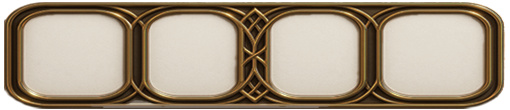
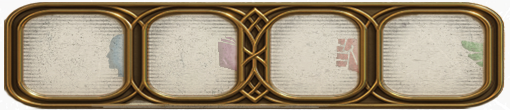
feat: default background

diff --git a/slices/pages/board/board/ui/layout/orientation/portrait/footer/description/BoardDescription/ui/BoardDescription.tsx b/slices/pages/board/board/ui/layout/orientation/portrait/footer/description/BoardDescription/ui/BoardDescription.tsx
@@ -4,6 +4,7 @@ import {
 	selectCurrentBoardProp,
 	selectShowDescription,
 } from "@modules/board/base/shared/lib";
+import { selectArtworksEnabled } from "@modules/core/theme/shared/lib";
 import { selectCurrentFaction } from "@modules/mechanics/board/base/entities/lib";
 import {
 	CAN_ALWAYS_SHOW_GAME_TEXT,
@@ -28,6 +29,7 @@ const screen = Dimensions.get("screen");
 export type BoardDescriptionProps = ViewProps;
 export const BoardDescription = ({ ...props }: BoardDescriptionProps) => {
 	const alwaysShowText = useAppSelector(selectAlwaysShowGameText);
+	const artworksEnabled = useAppSelector(selectArtworksEnabled);
 
 	const show = alwaysShowText && CAN_ALWAYS_SHOW_GAME_TEXT;
 
@@ -68,7 +70,11 @@ export const BoardDescription = ({ ...props }: BoardDescriptionProps) => {
 				{!showDescription && <C.ExpandArea />}
 				<C.TopContent />
 				<GestureDetector gesture={gesture}>
-					<C.Background faction={faction} width={screen.width}>
+					<C.Background
+						faction={faction}
+						width={screen.width}
+						enabled={artworksEnabled}
+					>
 						<C.DescriptionContent>
 							<C.TextContent>
 								{showTraits && (

diff --git a/slices/modules/faction/shared/ui/FactionDescription/FactionDescription.tsx b/slices/modules/faction/shared/ui/FactionDescription/FactionDescription.tsx
@@ -1,4 +1,7 @@
-import { descriptionImages } from "@assets/images/game/description";
+import {
+	defaultFactionDescriptionImage,
+	descriptionImages,
+} from "@assets/images/game/description";
 import { getBoxByRatio } from "@shared/lib/util/size/box";
 import type { PropsWithFaction } from "@shared/model";
 import type { ImageBackgroundProps } from "@shared/ui";
@@ -6,11 +9,14 @@ import * as C from "./FactionDescription.components";
 import { factionDescriptionSize } from "./FactionDescription.styles";
 
 export type FactionDescriptionProps = Omit<ImageBackgroundProps, "source"> &
-	PropsWithFaction;
+	PropsWithFaction & {
+		enabled?: boolean;
+	};
 
 export const FactionDescription = ({
 	children,
 	faction,
+	enabled = true,
 	...props
 }: FactionDescriptionProps) => {
 	const { width, height } = props;
@@ -29,7 +35,9 @@ export const FactionDescription = ({
 		return null;
 	}
 
-	const source = descriptionImages[faction];
+	const source = enabled
+		? descriptionImages[faction]
+		: defaultFactionDescriptionImage;
 
 	return (
 		<C.Background {...props} source={source} box={imageBox}>

diff --git a/slices/pages/board/board/ui/shared/background/FactionBackground/FactionBackground.tsx b/slices/pages/board/board/ui/shared/background/FactionBackground/FactionBackground.tsx
@@ -1,3 +1,4 @@
+import { selectArtworksEnabled } from "@modules/core/theme/shared/lib";
 import type { FactionBackgroundProps as BackgroundProps } from "@modules/faction/shared/ui";
 import { selectCurrentFaction } from "@modules/mechanics/board/base/entities/lib";
 import { useAppSelector } from "@shared/lib";
@@ -7,6 +8,9 @@ export type FactionBackgroundProps = Omit<BackgroundProps, "faction">;
 
 export const FactionBackground = (props: FactionBackgroundProps) => {
 	const faction = useAppSelector(selectCurrentFaction);
+	const artworksEnabled = useAppSelector(selectArtworksEnabled);
 
-	return <C.Background {...props} faction={faction} />;
+	return (
+		<C.Background {...props} faction={faction} enabled={artworksEnabled} />
+	);
 };

diff --git a/assets/images/game/description/index.ts b/assets/images/game/description/index.ts
@@ -7,6 +7,8 @@ const seeker = require("./seeker.png");
 const survivor = require("./survivor.png");
 const neutral = require("./neutral.png");
 
+export const defaultFactionDescriptionImage = require("./default.png");
+
 export const descriptionImages: FactionImages = {
 	guardian,
 	mystic,

diff --git a/slices/pages/static/about/ui/AboutPage/AboutPage.tsx b/slices/pages/static/about/ui/AboutPage/AboutPage.tsx
@@ -61,9 +61,10 @@ export const AboutPage = (props: AboutPageProps) => {
 							}}
 						/>
 					</Paragraph>
+
+					<Paragraph>{t`about.artwork`}</Paragraph>
 				</>
 			)}
-			<Paragraph>{t`about.artwork`}</Paragraph>
 			<Title>{t`Hall of Fame`}</Title>
 			<List>
 				<List.Item>
